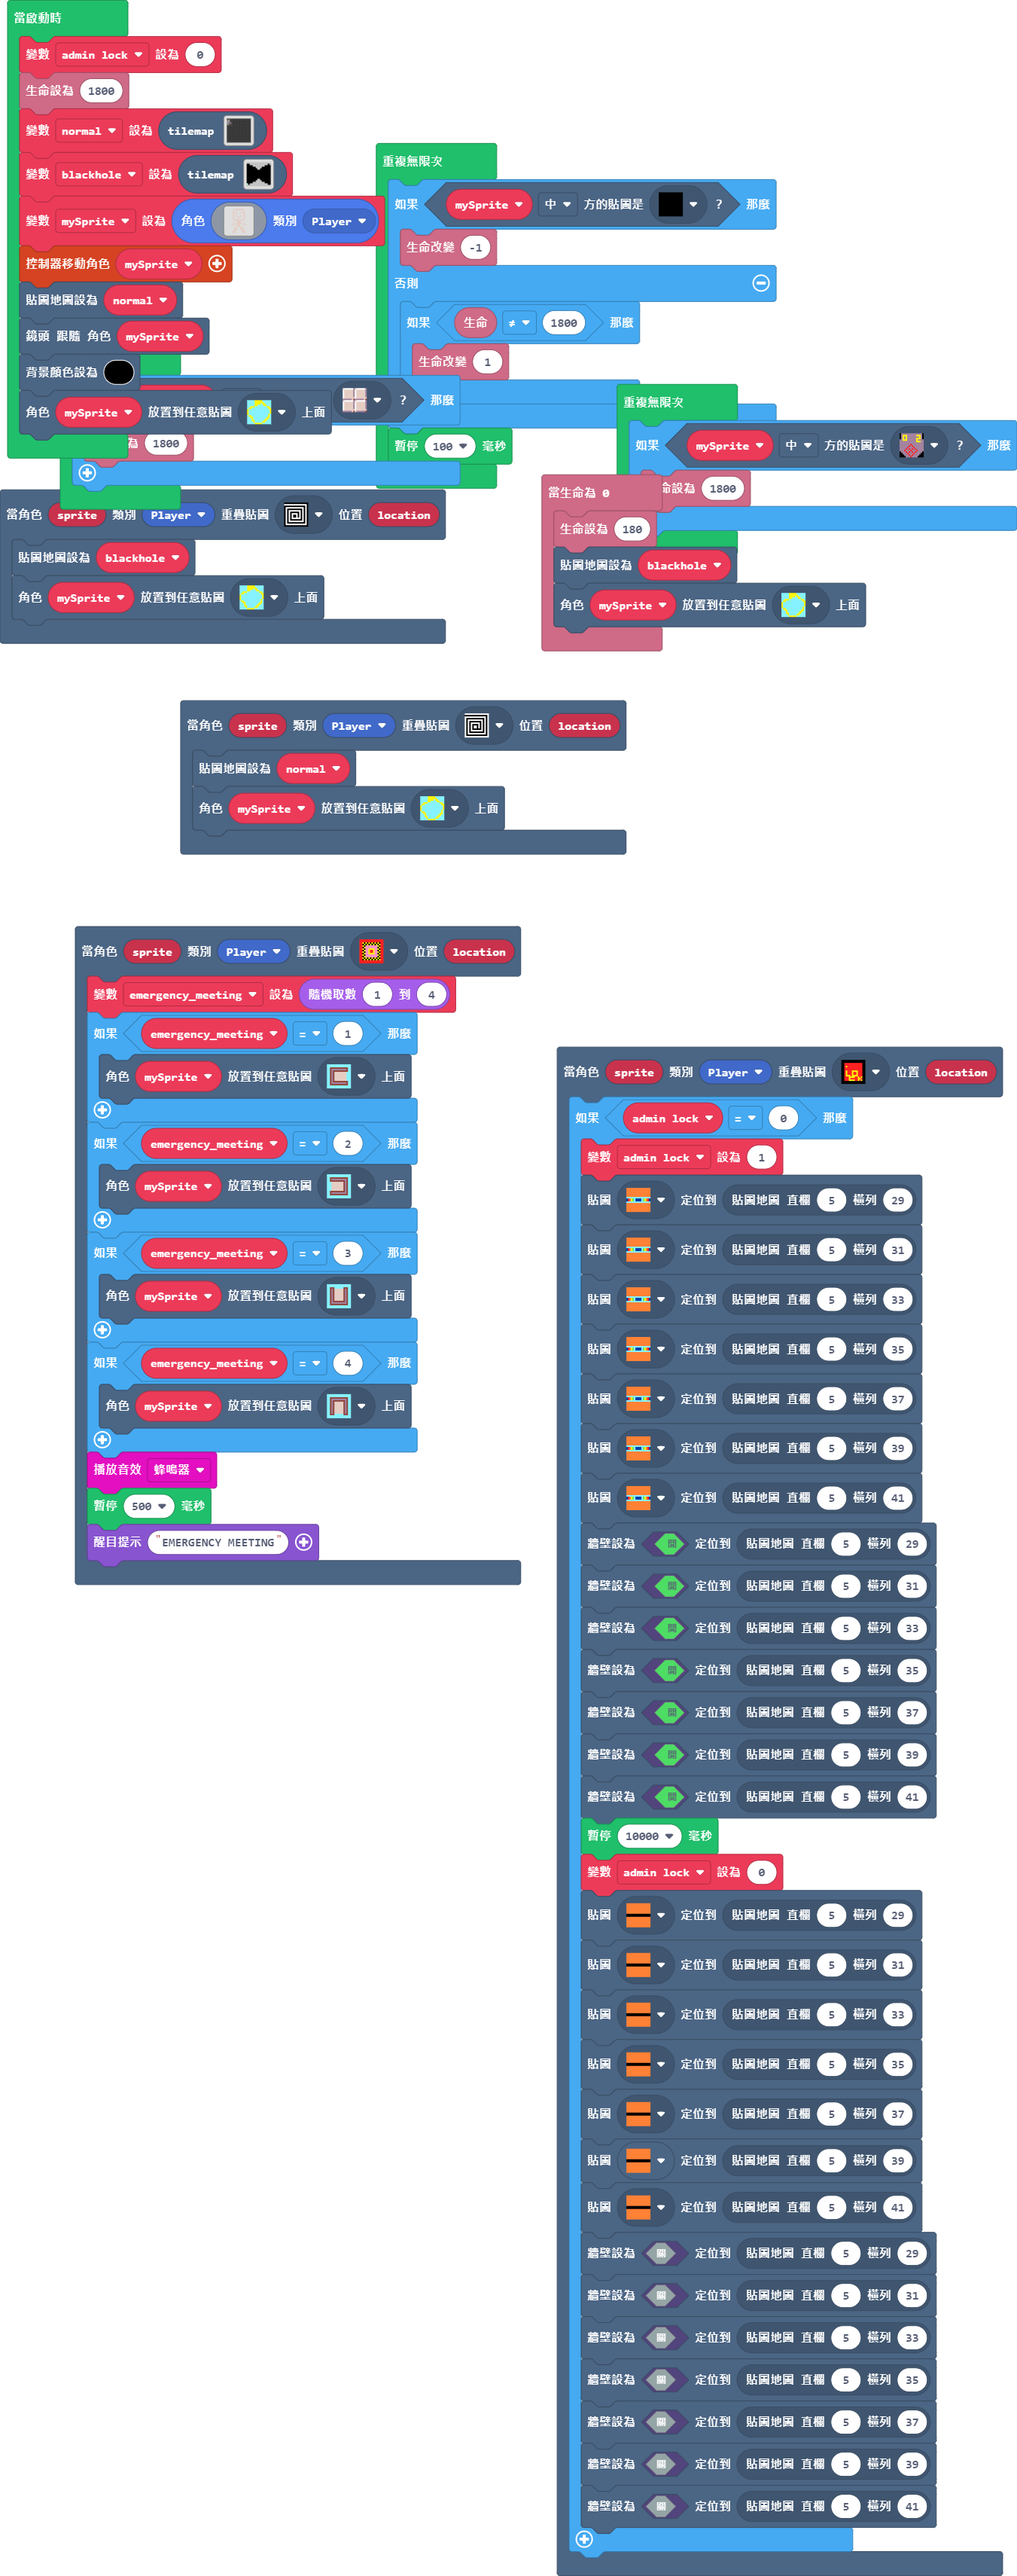
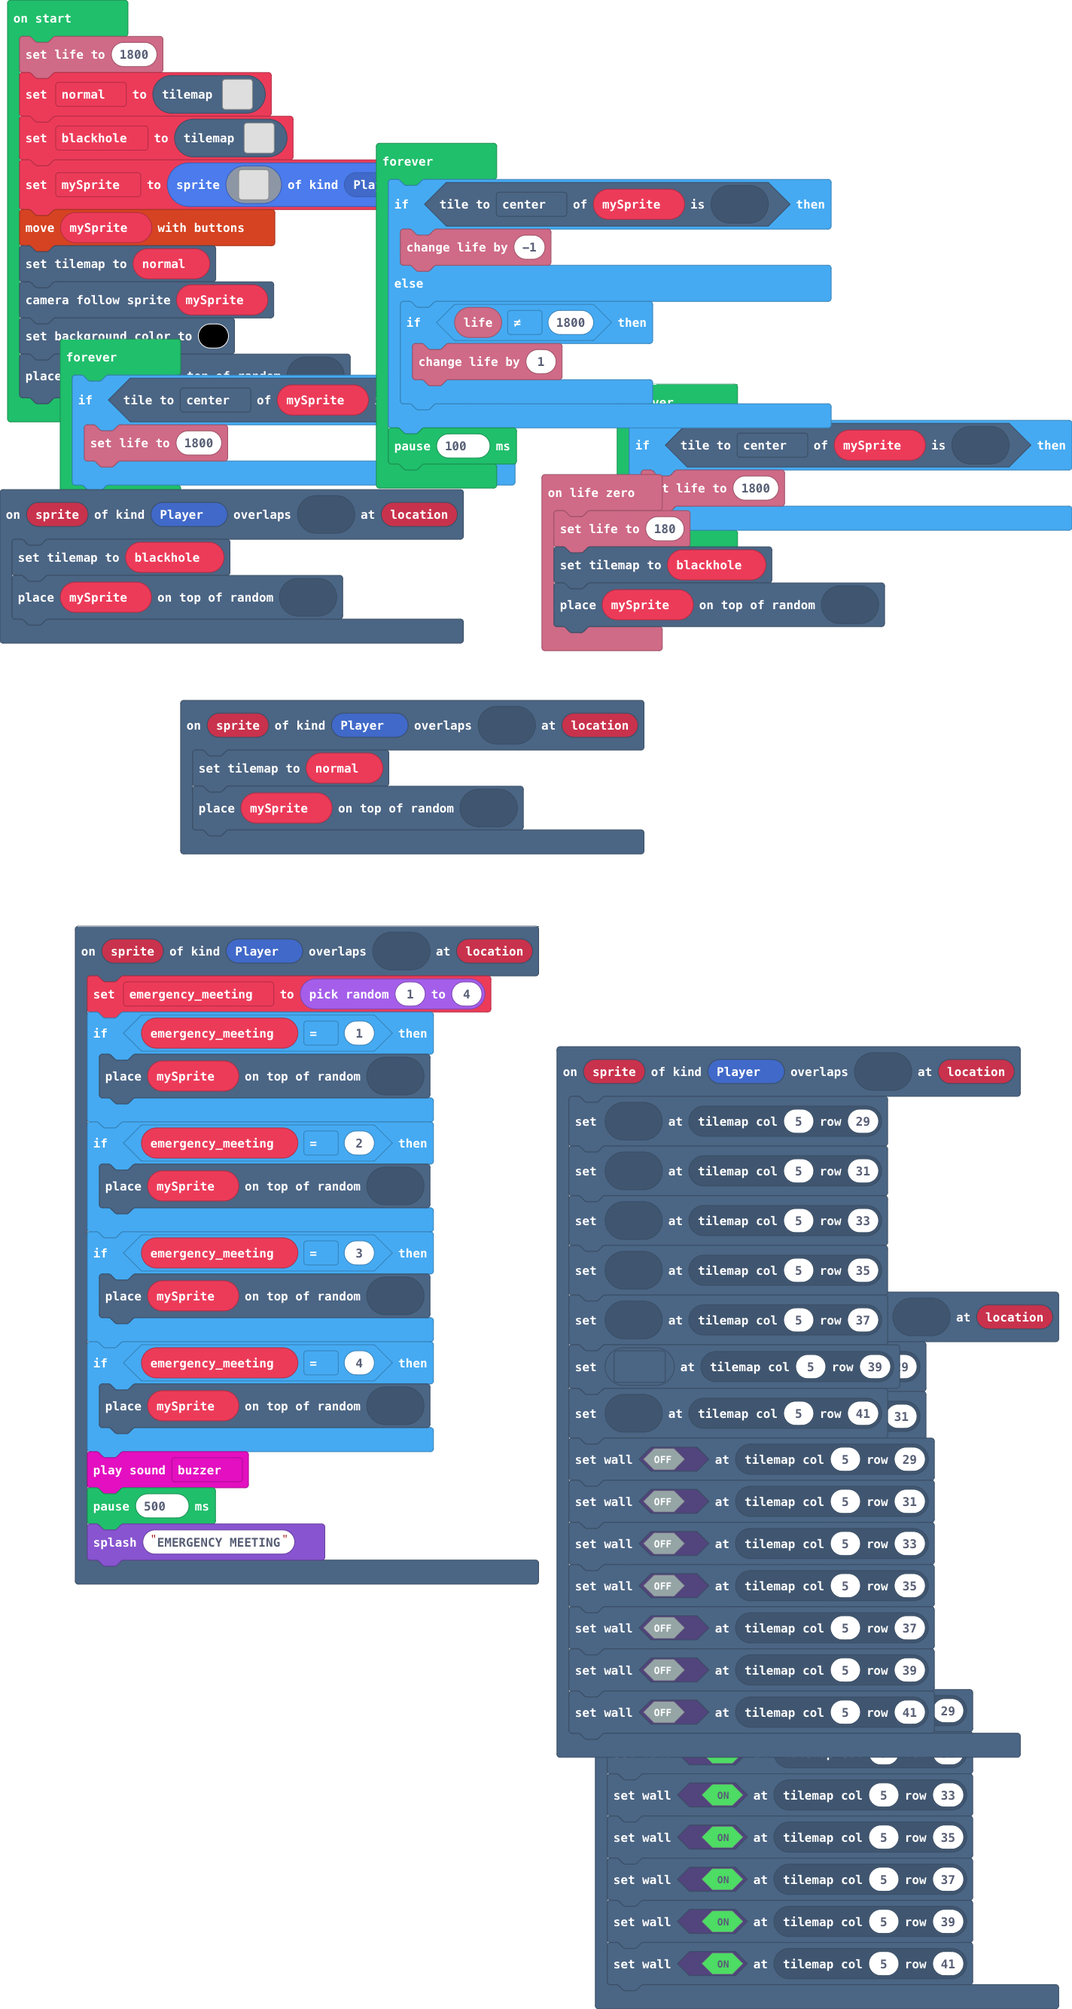
Update main.blocks, main.ts, tilemap.g.jres, tilemap.g.ts

diff --git a/main.ts b/main.ts
@@ -1,37 +1,18 @@
 scene.onOverlapTile(SpriteKind.Player, assets.tile`我的貼圖27`, function (sprite, location) {
-    if (admin_lock == 0) {
-        admin_lock = 1
-        tiles.setTileAt(tiles.getTileLocation(5, 29), assets.tile`我的貼圖35`)
-        tiles.setTileAt(tiles.getTileLocation(5, 31), assets.tile`我的貼圖35`)
-        tiles.setTileAt(tiles.getTileLocation(5, 33), assets.tile`我的貼圖35`)
-        tiles.setTileAt(tiles.getTileLocation(5, 35), assets.tile`我的貼圖35`)
-        tiles.setTileAt(tiles.getTileLocation(5, 37), assets.tile`我的貼圖35`)
-        tiles.setTileAt(tiles.getTileLocation(5, 39), assets.tile`我的貼圖35`)
-        tiles.setTileAt(tiles.getTileLocation(5, 41), assets.tile`我的貼圖35`)
-        tiles.setWallAt(tiles.getTileLocation(5, 29), true)
-        tiles.setWallAt(tiles.getTileLocation(5, 31), true)
-        tiles.setWallAt(tiles.getTileLocation(5, 33), true)
-        tiles.setWallAt(tiles.getTileLocation(5, 35), true)
-        tiles.setWallAt(tiles.getTileLocation(5, 37), true)
-        tiles.setWallAt(tiles.getTileLocation(5, 39), true)
-        tiles.setWallAt(tiles.getTileLocation(5, 41), true)
-        pause(10000)
-        admin_lock = 0
-        tiles.setTileAt(tiles.getTileLocation(5, 29), assets.tile`我的貼圖32`)
-        tiles.setTileAt(tiles.getTileLocation(5, 31), assets.tile`我的貼圖32`)
-        tiles.setTileAt(tiles.getTileLocation(5, 33), assets.tile`我的貼圖32`)
-        tiles.setTileAt(tiles.getTileLocation(5, 35), assets.tile`我的貼圖32`)
-        tiles.setTileAt(tiles.getTileLocation(5, 37), assets.tile`我的貼圖32`)
-        tiles.setTileAt(tiles.getTileLocation(5, 39), assets.tile`我的貼圖32`)
-        tiles.setTileAt(tiles.getTileLocation(5, 41), assets.tile`我的貼圖32`)
-        tiles.setWallAt(tiles.getTileLocation(5, 29), false)
-        tiles.setWallAt(tiles.getTileLocation(5, 31), false)
-        tiles.setWallAt(tiles.getTileLocation(5, 33), false)
-        tiles.setWallAt(tiles.getTileLocation(5, 35), false)
-        tiles.setWallAt(tiles.getTileLocation(5, 37), false)
-        tiles.setWallAt(tiles.getTileLocation(5, 39), false)
-        tiles.setWallAt(tiles.getTileLocation(5, 41), false)
-    }
+    tiles.setTileAt(tiles.getTileLocation(5, 29), assets.tile`我的貼圖35`)
+    tiles.setTileAt(tiles.getTileLocation(5, 31), assets.tile`我的貼圖35`)
+    tiles.setTileAt(tiles.getTileLocation(5, 33), assets.tile`我的貼圖35`)
+    tiles.setTileAt(tiles.getTileLocation(5, 35), assets.tile`我的貼圖35`)
+    tiles.setTileAt(tiles.getTileLocation(5, 37), assets.tile`我的貼圖35`)
+    tiles.setTileAt(tiles.getTileLocation(5, 39), assets.tile`我的貼圖35`)
+    tiles.setTileAt(tiles.getTileLocation(5, 41), assets.tile`我的貼圖35`)
+    tiles.setWallAt(tiles.getTileLocation(5, 29), true)
+    tiles.setWallAt(tiles.getTileLocation(5, 31), true)
+    tiles.setWallAt(tiles.getTileLocation(5, 33), true)
+    tiles.setWallAt(tiles.getTileLocation(5, 35), true)
+    tiles.setWallAt(tiles.getTileLocation(5, 37), true)
+    tiles.setWallAt(tiles.getTileLocation(5, 39), true)
+    tiles.setWallAt(tiles.getTileLocation(5, 41), true)
 })
 scene.onOverlapTile(SpriteKind.Player, assets.tile`我的貼圖20`, function (sprite, location) {
     emergency_meeting = randint(1, 4)
@@ -51,6 +32,22 @@ scene.onOverlapTile(SpriteKind.Player, assets.tile`我的貼圖20`, function (sp
     pause(500)
     game.splash("EMERGENCY MEETING")
 })
+scene.onOverlapTile(SpriteKind.Player, assets.tile`我的貼圖36`, function (sprite, location) {
+    tiles.setTileAt(tiles.getTileLocation(5, 29), assets.tile`我的貼圖32`)
+    tiles.setTileAt(tiles.getTileLocation(5, 31), assets.tile`我的貼圖32`)
+    tiles.setTileAt(tiles.getTileLocation(5, 33), assets.tile`我的貼圖32`)
+    tiles.setTileAt(tiles.getTileLocation(5, 35), assets.tile`我的貼圖32`)
+    tiles.setTileAt(tiles.getTileLocation(5, 37), assets.tile`我的貼圖32`)
+    tiles.setTileAt(tiles.getTileLocation(5, 39), assets.tile`我的貼圖32`)
+    tiles.setTileAt(tiles.getTileLocation(5, 41), assets.tile`我的貼圖32`)
+    tiles.setWallAt(tiles.getTileLocation(5, 29), false)
+    tiles.setWallAt(tiles.getTileLocation(5, 31), false)
+    tiles.setWallAt(tiles.getTileLocation(5, 33), false)
+    tiles.setWallAt(tiles.getTileLocation(5, 35), false)
+    tiles.setWallAt(tiles.getTileLocation(5, 37), false)
+    tiles.setWallAt(tiles.getTileLocation(5, 39), false)
+    tiles.setWallAt(tiles.getTileLocation(5, 41), false)
+})
 scene.onOverlapTile(SpriteKind.Player, assets.tile`我的貼圖17`, function (sprite, location) {
     tiles.setCurrentTilemap(blackhole)
     tiles.placeOnRandomTile(mySprite, assets.tile`我的貼圖2`)
@@ -68,8 +65,6 @@ let emergency_meeting = 0
 let mySprite: Sprite = null
 let blackhole: tiles.TileMapData = null
 let normal: tiles.TileMapData = null
-let admin_lock = 0
-admin_lock = 0
 info.setLife(1800)
 normal = tilemap`層級1`
 blackhole = tilemap`層級9`

diff --git a/tilemap.g.ts b/tilemap.g.ts
@@ -474,6 +474,44 @@ namespace myTiles {
 ........................................................................................................................................................................................................
 ........................................................................................................................................................................................................
 `, [myTiles.transparency16,myTiles.tile1,myTiles.tile3,myTiles.tile5,myTiles.tile6,myTiles.tile8,myTiles.tile9,myTiles.tile10,sprites.dungeon.doorLockedWest,sprites.dungeon.doorLockedSouth,sprites.dungeon.doorLockedEast,sprites.dungeon.doorLockedNorth,sprites.dungeon.floorLight0,myTiles.tile11,myTiles.tile12,myTiles.tile13,myTiles.tile14,myTiles.tile15,myTiles.tile7,myTiles.tile16,myTiles.tile18,myTiles.tile17,myTiles.tile19,myTiles.tile4,myTiles.tile21,myTiles.tile22,myTiles.tile24,myTiles.tile25,myTiles.tile26,myTiles.tile27,myTiles.tile23,myTiles.tile20,myTiles.tile28,myTiles.tile30,myTiles.tile31,myTiles.tile32,myTiles.tile33,myTiles.tile34,myTiles.tile35,myTiles.tile36,myTiles.tile29,myTiles.tile2,myTiles.tile39], TileScale.Sixteen);
+            case "level1":
+            case "level1":return tiles.createTilemap(hex`1000100000000000000000000000000000000000000000000000000000000000000000000000000000000000000000000000000000000000000000000000000000000000000000000000000000000000000000000000000000000000000000000000000000000000000000000000000000000000000000000000000000000000000000000000000000000000000000000000000000000000000000000000000000000000000000000000000000000000000000000000000000000000000000000000000000000000000000000000000000000000000000000000000000000000000000000000000000000000000000000000000000000000000000000000000000000000`, img`
+. . . . . . . . . . . . . . . . 
+. . . . . . . . . . . . . . . . 
+. . . . . . . . . . . . . . . . 
+. . . . . . . . . . . . . . . . 
+. . . . . . . . . . . . . . . . 
+. . . . . . . . . . . . . . . . 
+. . . . . . . . . . . . . . . . 
+. . . . . . . . . . . . . . . . 
+. . . . . . . . . . . . . . . . 
+. . . . . . . . . . . . . . . . 
+. . . . . . . . . . . . . . . . 
+. . . . . . . . . . . . . . . . 
+. . . . . . . . . . . . . . . . 
+. . . . . . . . . . . . . . . . 
+. . . . . . . . . . . . . . . . 
+. . . . . . . . . . . . . . . . 
+`, [myTiles.transparency16], TileScale.Sixteen);
+            case "level2":
+            case "level2":return tiles.createTilemap(hex`1000100000000000000000000000000000000000000000000000000000000000000000000000000000000000000000000000000000000000000000000000000000000000000000000000000000000000000000000000000000000000000000000000000000000000000000000000000000000000000000000000000000000000000000000000000000000000000000000000000000000000000000000000000000000000000000000000000000000000000000000000000000000000000000000000000000000000000000000000000000000000000000000000000000000000000000000000000000000000000000000000000000000000000000000000000000000000`, img`
+. . . . . . . . . . . . . . . . 
+. . . . . . . . . . . . . . . . 
+. . . . . . . . . . . . . . . . 
+. . . . . . . . . . . . . . . . 
+. . . . . . . . . . . . . . . . 
+. . . . . . . . . . . . . . . . 
+. . . . . . . . . . . . . . . . 
+. . . . . . . . . . . . . . . . 
+. . . . . . . . . . . . . . . . 
+. . . . . . . . . . . . . . . . 
+. . . . . . . . . . . . . . . . 
+. . . . . . . . . . . . . . . . 
+. . . . . . . . . . . . . . . . 
+. . . . . . . . . . . . . . . . 
+. . . . . . . . . . . . . . . . 
+. . . . . . . . . . . . . . . . 
+`, [myTiles.transparency16], TileScale.Sixteen);
         }
         return null;
     })
